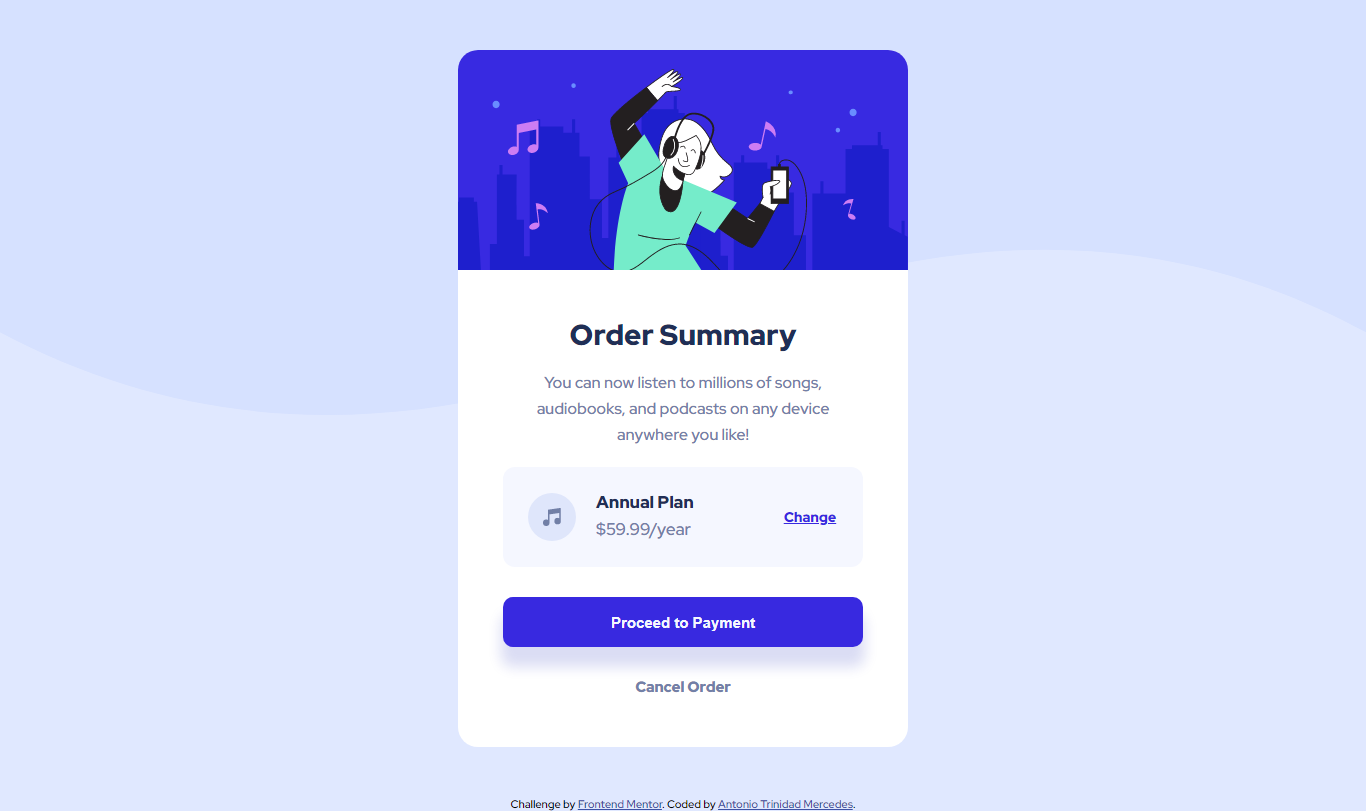
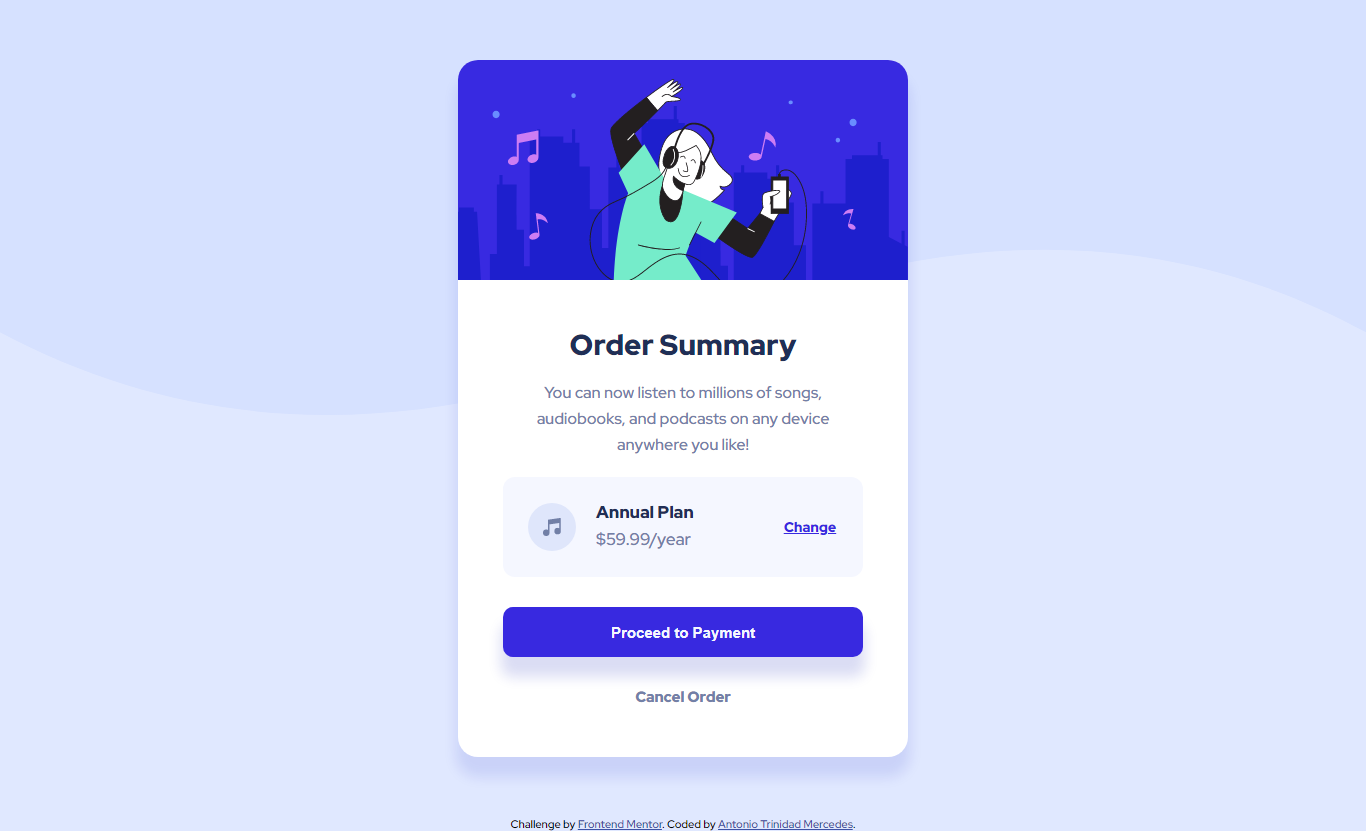
otros ajustes

diff --git a/css/style.css b/css/style.css
@@ -22,7 +22,7 @@ body {
 	background-repeat: no-repeat;
 	background-size: contain;
 	background-color: var(--Pale-blue);
-	width: 100vw;
+	width: 100%;
 	height: 100%;
 }
 .contaner {
